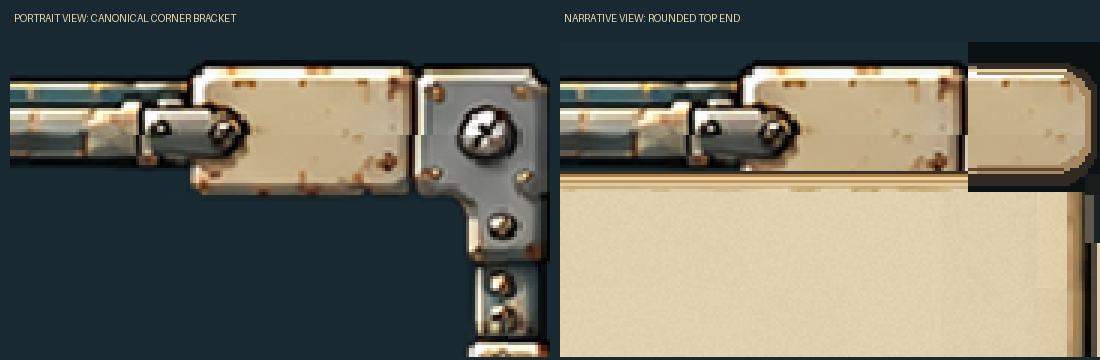
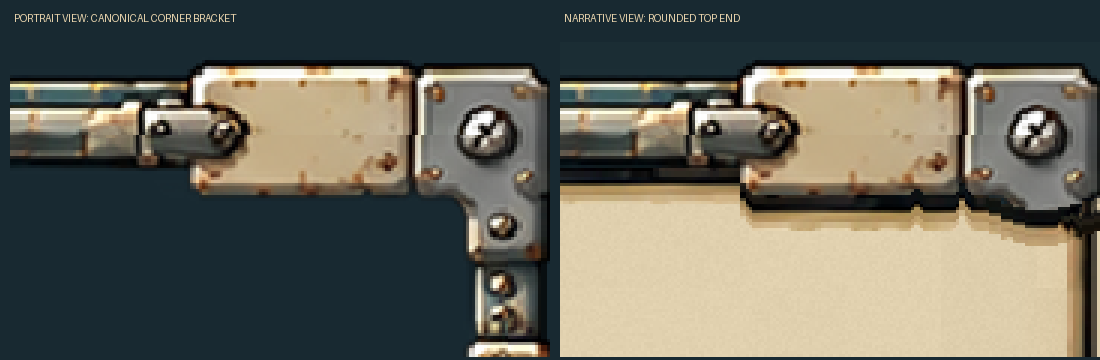
art: align narrative panel beneath top frame

Changed region(s): [[0.4945, 0.0917, 1.0, 0.7028]]

diff --git a/review/narrative-mode-b-art-study/build_review.py b/review/narrative-mode-b-art-study/build_review.py
@@ -24,7 +24,6 @@ assert SHELL.size == (1920, 1080)
 assert QA_FOOTER.size == SHELL.size
 assert hashlib.sha256(SHELL_PATH.read_bytes()).hexdigest() == SHELL_SHA
 
-PANEL = (1316, 43, 1915, 520)  # exclusive right/bottom
 INNER = (1323, 50, 1909, 515)
 PALETTE_A = (224, 208, 174)
 INK = (32, 48, 55, 255)
@@ -32,9 +31,8 @@ INK = (32, 48, 55, 255)
 
 def panel_border(out: Image.Image) -> None:
     """Nine-slice the approved dialogue surround, retaining native pixel size."""
-    # Only seven source rows form the new upper rim. The bottom stays at its
-    # original y. Neither the choice panel nor its track is copied or painted.
-    out.alpha_composite(SHELL.crop((1316, 343, 1915, 350)), (1316, 43))
+    # The top rim is placed separately beneath the existing upper hardware.
+    # The bottom stays at its original y. Choice panel and track are untouched.
     for y in range(50, 515):
         sy = 355 + (y - 50) % 150
         out.alpha_composite(SHELL.crop((1316, sy, 1323, sy + 1)), (1316, y))
@@ -42,37 +40,39 @@ def panel_border(out: Image.Image) -> None:
     out.alpha_composite(SHELL.crop((1316, 515, 1920, 520)), (1316, 515))
 
 
-def rounded_top_end(out: Image.Image) -> None:
-    """Narrative-mode terminal cap in place of the portrait's corner bracket."""
-    d = ImageDraw.Draw(out)
-    # This small opaque patch masks the shell's large L-shaped top-right
-    # bracket. It belongs to the mode overlay; the underlying shell is never
-    # edited, so switching back reveals the original portrait bracket.
-    d.rectangle((1876, 0, 1919, 49), fill=(12, 18, 20, 255))
-    d.polygon([(1876, 7), (1909, 7), (1914, 9), (1918, 14),
-               (1918, 38), (1914, 44), (1909, 47), (1876, 47)],
-              fill=(49, 42, 35, 255))
-    d.polygon([(1876, 9), (1908, 9), (1913, 12), (1916, 16),
-               (1916, 36), (1912, 41), (1907, 43), (1876, 43)],
-              fill=(167, 137, 97, 255))
-    d.polygon([(1876, 11), (1907, 11), (1911, 14), (1914, 18),
-               (1914, 34), (1910, 39), (1906, 40), (1876, 40)],
-              fill=(218, 197, 159, 255))
-    cap_texture = SHELL.crop((1825, 0, 1869, 50))
-    cap_mask = Image.new("L", (44, 50), 0)
-    ImageDraw.Draw(cap_mask).polygon([(0, 11), (31, 11), (35, 14), (38, 18),
-                                     (38, 34), (34, 39), (30, 40), (0, 40)], fill=255)
-    out.paste(cap_texture, (1876, 0), cap_mask)
-    # Source plate continues into the cap without the portrait bracket's
-    # heavy vertical junction.
-    out.paste(SHELL.crop((1825, 8, 1828, 44)), (1876, 8))
-    d.line((1876, 9, 1908, 9), fill=(234, 216, 179, 255), width=1)
-    d.line((1876, 42, 1907, 42), fill=(96, 72, 49, 255), width=1)
-    # Pixel-stepped dark lip connects the rounded end to the slimmer side
-    # moulding; it has no bolt or L-corner plate.
-    d.rectangle((1915, 44, 1919, 50), fill=(24, 29, 28, 255))
-    d.rectangle((1915, 51, 1917, 66), fill=(94, 89, 74, 255))
-    d.rectangle((1918, 51, 1919, 66), fill=(28, 34, 33, 255))
+def top_frame_bottom(x: int) -> int:
+    """Last solid upper-frame pixel, before the portrait aperture begins."""
+    if x >= 1880:
+        # Keep the original silver bracket head and large screw. Its surviving
+        # lower contour is rounded; the narrow 90-degree leg and lower screw
+        # are covered by the taller dialogue panel.
+        distance = abs(x - 1900)
+        if distance >= 18:
+            return 50
+        if distance >= 14:
+            return 51
+        if distance >= 10:
+            return 53
+        if distance >= 6:
+            return 54
+        return 55
+    for y in range(55, 34, -1):
+        if SHELL.getpixel((x, y))[3] >= 200:
+            return y
+    return 41
+
+
+def top_border_below_frame(out: Image.Image) -> None:
+    """Move the EXISTING dialogue top border up to touch the upper frame."""
+    # The upper hardware has an irregular lower edge: the pipe is shallower
+    # than the enamel plates. The black edge follows that edge one pixel below
+    # instead of drawing a new rail across the existing hardware.
+    for x in range(1316, 1920):
+        top = top_frame_bottom(x) + 1
+        for y in range(top):
+            out.putpixel((x, y), (0, 0, 0, 0))
+        sx = min(x, 1914)
+        out.alpha_composite(SHELL.crop((sx, 338, sx + 1, 350)), (x, top))
 
 
 def paper_a() -> Image.Image:
@@ -108,7 +108,7 @@ def paper_a() -> Image.Image:
 
 
 def paper_b() -> Image.Image:
-    """Warmer institutional paper, with quiet ledger rules and a left margin."""
+    """Slightly warmer institutional paper in the same dialogue-box form."""
     w, h = 586, 465
     rng = random.Random(6402)
     paper = Image.new("RGBA", (w, h), (232, 220, 191, 255))
@@ -120,40 +120,26 @@ def paper_b() -> Image.Image:
             px[x, y] = (232 + n - edge // 6,
                         220 + n - edge // 4,
                         191 + n - edge // 3, 255)
-    d = ImageDraw.Draw(paper)
-    # Rules are muted ink in the paper itself. No lettering, folio number,
-    # second box, decorative fastener, or new scrollbar is introduced.
-    for y in range(50, 445, 27):
-        d.line((51, y, 562, y), fill=(222, 211, 183, 255), width=1)
-    d.line((45, 25, 45, 438), fill=(192, 170, 137, 255), width=1)
-    d.line((48, 25, 48, 438), fill=(224, 204, 170, 255), width=1)
-    # A tiny brass paper-stop is an actual-looking attachment to the existing
-    # frame, kept outside the text-safe area.
-    d.rectangle((17, 13, 34, 18), fill=(151, 119, 78, 255))
-    d.rectangle((19, 13, 32, 14), fill=(218, 194, 145, 255))
     return paper
 
 
 def overlay(kind: str) -> Image.Image:
     out = Image.new("RGBA", SHELL.size, (0, 0, 0, 0))
-    ImageDraw.Draw(out).rectangle((1316, 43, 1919, 519), fill=PALETTE_A + (255,))
+    ImageDraw.Draw(out).rectangle((1316, 41, 1919, 519), fill=PALETTE_A + (255,))
     out.paste(paper_a() if kind == "a" else paper_b(), INNER[:2])
     panel_border(out)
-    d = ImageDraw.Draw(out)
-    # A continuous raised top edge is visible even though this content panel
-    # reaches the old portrait aperture. These rows are native pixel strokes.
-    for y, col in [(43, (60, 48, 33, 255)), (44, (167, 127, 77, 255)),
-                   (45, (239, 210, 157, 255)), (46, (187, 149, 97, 255)),
-                   (47, (226, 202, 159, 255))]:
-        d.line((1323, y, 1909, y), fill=col, width=1)
-    rounded_top_end(out)
+    top_border_below_frame(out)
     # A candidate overlay must fully occlude the portrait/speech divider and
     # nowhere touch the scene, choices, choice track, objective, or footer.
-    assert out.getbbox() == (1316, 0, 1920, 520)
+    assert out.getbbox() == (1316, 42, 1920, 520)
     alpha = out.getchannel("A")
-    assert alpha.crop((1316, 67, 1920, 520)).getextrema() == (255, 255)
+    assert alpha.crop((1316, 68, 1920, 520)).getextrema() == (255, 255)
     assert alpha.crop((0, 0, 1316, 1080)).getbbox() is None
     assert alpha.crop((0, 520, 1920, 1080)).getbbox() is None
+    for x in (1340, 1500, 1750, 1850, 1890, 1900, 1918):
+        first_panel_pixel = top_frame_bottom(x) + 1
+        assert alpha.getpixel((x, first_panel_pixel - 1)) == 0
+        assert alpha.getpixel((x, first_panel_pixel)) == 255
     return out
 
 
@@ -266,9 +252,7 @@ def proof(kind: str, length: str, text_style: str) -> Image.Image:
     im.paste(QA_FOOTER.crop((0, 895, 1920, 1080)), (0, 895))
     im.alpha_composite(overlay(kind))
     text = SHORT if length == "short" else LONG
-    tx = 1350 if kind == "a" else 1380
-    maxw = 522 if kind == "a" else 490
-    line_count = draw_text(im, text, (tx, 77), "dialogue", 27, maxw)
+    line_count = draw_text(im, text, (1350, 77), "dialogue", 27, 522)
     assert line_count <= 16, (length, line_count)
     if text_style == "quotes":
         choices = [('"Is that door locked, or am I meant to enter a code?"', False),
@@ -336,6 +320,19 @@ def corner_comparison() -> Image.Image:
     return sheet
 
 
+def top_border_detail() -> Image.Image:
+    sheet = Image.new("RGBA", (1208, 270), (24, 41, 49, 255))
+    ImageDraw.Draw(sheet).text((12, 8),
+        "EXISTING UPPER FRAME ABOVE THE EXTENDED DIALOGUE BOX - NATIVE PIXEL EDGES AT 2X",
+        fill=(235, 214, 174, 255))
+    im = Image.new("RGBA", SHELL.size, (27, 45, 52, 255))
+    im.alpha_composite(SHELL)
+    im.alpha_composite(overlay("a"))
+    crop = im.crop((1316, 0, 1920, 120)).resize((1208, 240), Image.Resampling.NEAREST)
+    sheet.alpha_composite(crop, (0, 30))
+    return sheet
+
+
 def main() -> None:
     OUT.mkdir(parents=True, exist_ok=True)
     for kind in ("a", "b"):
@@ -346,6 +343,7 @@ def main() -> None:
     for length in ("short", "long"):
         panel_comparison(length).save(OUT / f"candidate-comparison-{length}.png", optimize=True)
     corner_comparison().save(OUT / "top-end-switch-comparison.png", optimize=True)
+    top_border_detail().save(OUT / "top-border-alignment-detail.png", optimize=True)
 
 
 if __name__ == "__main__":

diff --git a/review/narrative-mode-b-art-study/README.md b/review/narrative-mode-b-art-study/README.md
@@ -8,10 +8,10 @@
 | Candidate | Overlay | Reading surface |
 | --- | --- | --- |
 | 1 | [narrative-mode-b-candidate-a-overlay.png](narrative-mode-b-candidate-a-overlay.png) | Existing dialogue inset cream and stained lower edge, extended as one surface. |
-| 2 | [narrative-mode-b-candidate-b-overlay.png](narrative-mode-b-candidate-b-overlay.png) | Slightly warmer institutional paper with a quiet margin and pixel rules. |
+| 2 | [narrative-mode-b-candidate-b-overlay.png](narrative-mode-b-candidate-b-overlay.png) | Slightly warmer institutional-paper tone in the same dialogue-panel frame. |
 
 Both are transparent **1920×1080 RGBA** PNGs with hard, binary alpha. They contain
-only the altered right-column panel and its top-right terminal cap. They contain
+only the altered right-column panel. They contain
 no narration, choices, scene, objective, inventory, or footer controls.
 
 The starting shell is exactly `art/ui/shell/layout-final.png`, SHA-256
@@ -32,7 +32,10 @@ its picture-window artwork was not copied into the narration overlays.
 | Long | [full frame](candidate-a-long-exact-shell.png) | [full frame](candidate-b-long-exact-shell.png) | [comparison](candidate-comparison-long.png) |
 
 [Top-right switch detail](top-end-switch-comparison.png) shows the original
-portrait-view corner bracket beside the narration-view rounded end.
+portrait-view corner bracket beside the same metal bracket with its lower leg
+masked and rounded in Narrative Mode.
+[Top-border alignment detail](top-border-alignment-detail.png) shows the
+existing upper hardware directly above the reused dialogue-box black edge.
 [Choice text comparison](choice-text-conventions.png) shows both proposed
 conventions on the **existing approved choice-card sprites and locked Choices
 bitmap atlas**. The exact-shell proofs use three standard two-line cards at
@@ -48,13 +51,20 @@ not game assets.
 - Original measured portrait aperture: `x1333 y44 w564 h278`.
 - Original speech panel: `x1316 y344 w598 h176`; parchment starts
   `x1323 y349`. The existing choices begin at `y525`, track at `y536`.
-- New opaque panel coverage: `x1316..1919, y43..519`; the paper field is
-  `x1323..1908, y50..514`. The old portrait/speech divider around `y318..348`
-  is fully covered, including its rightmost edge.
-- The top border is an explicit continuous brass/cream pixel rim at
-  `y43..49`. Its rounded terminal cap covers the portrait-view top-right
-  bracket at `x1876..1919, y0..66`. Removing the mode overlay reveals the
-  approved bracket again.
+- New opaque panel coverage is `x1316..1919, y68..519`, with a top edge that
+  follows the lower edge of the existing top frame at about `y42..56`. The old
+  portrait/speech divider around `y318..348` is fully covered, including its
+  rightmost edge.
+- The **actual black top edge and brass bevel from the existing dialogue box**
+  are moved upward, column by column, to the first pixel below the existing
+  top frame. The panel therefore sits behind that frame, with its black line
+  directly touching the frame's lower edge even where the frame has a shallower
+  pipe or a deeper enamel plate.
+- The original silver top-right bracket head and large screw remain visible
+  from the shell. The overlay masks its descending 90-degree leg and lower
+  screw; the surviving metal edge is pixel-stepped into a shallow rounded end
+  at `x1880..1919, y50..55`. No new cap material is drawn. Removing the
+  overlay reveals the approved full bracket again.
 - Alpha is zero left of `x1316` and below `y519`. Thus neither overlay touches
   the scene, choice cards/scrollbar, objective, inventory, or footer. Both
   overlays must be composited at `(0,0)` and **above** the shell and any old
